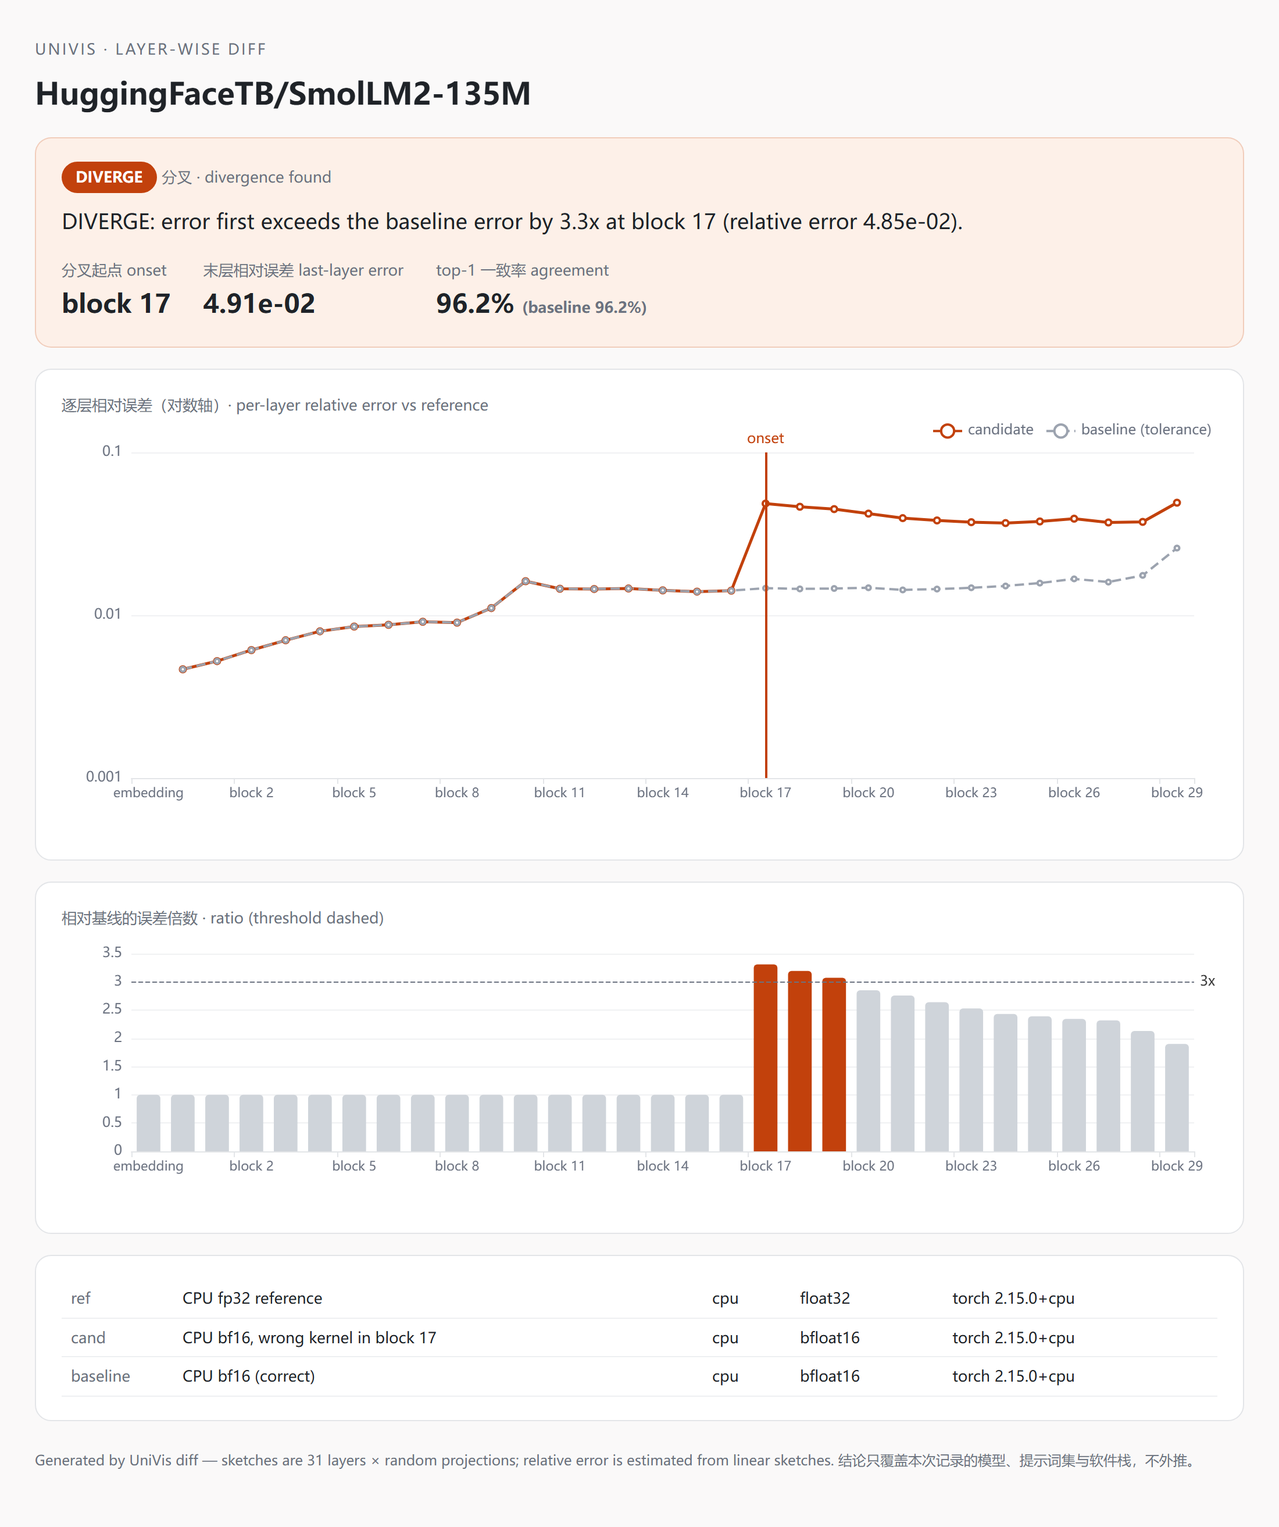
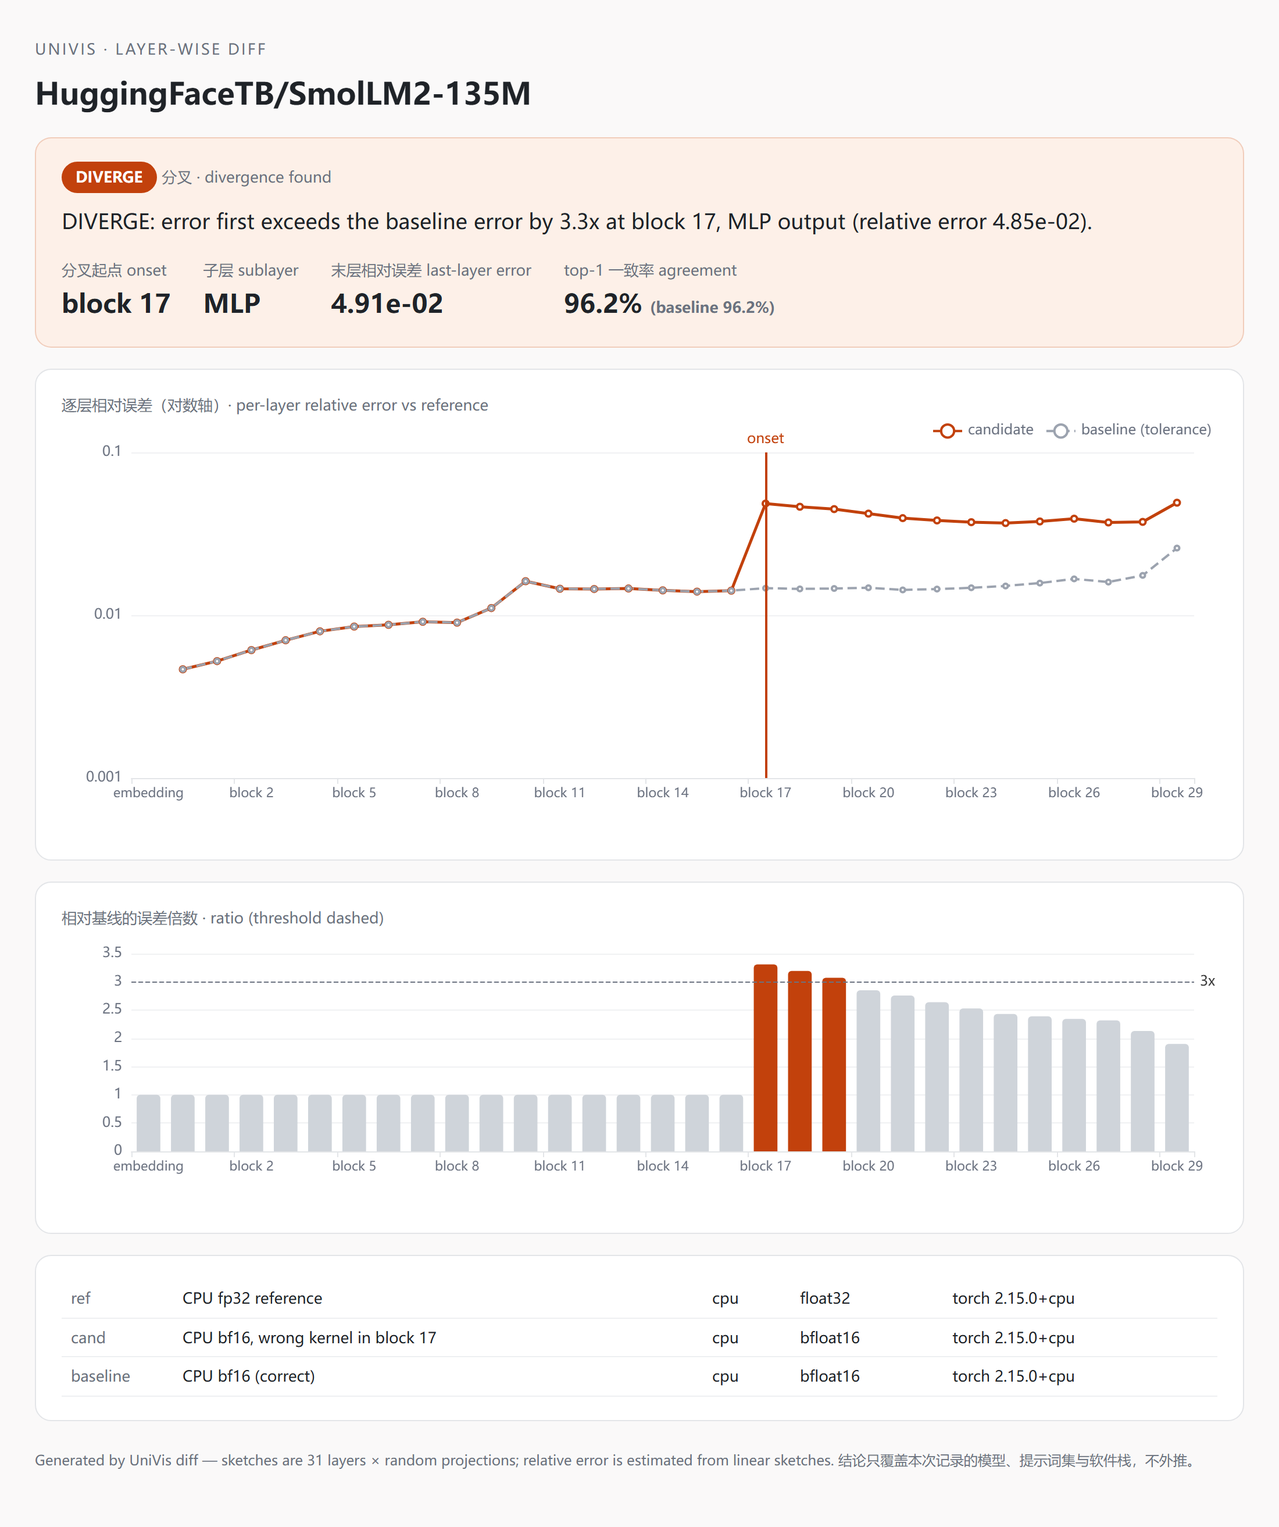
feat(diff): attribute divergence to the attention or MLP output of the onset block (v0.7.1)

Changed region(s): [[0.1545, 0.1561, 0.5873, 0.2186], [0.5564, 0.1249, 0.8345, 0.1561]]

diff --git a/website/index.html b/website/index.html
@@ -70,7 +70,7 @@
       <div><dt>单个错误算子</dt><dd>定位到 block 17 <span class="dim">(输出一致率不变)</span></dd></div>
       <div><dt>跨硬件画像一致性</dt><dd>r = 1.0000</dd></div>
       <div><dt>验证规模</dt><dd>0.5B → 27B <span class="dim">(54×)</span></dd></div>
-      <div><dt>单元测试</dt><dd>91 · CI 全绿</dd></div>
+      <div><dt>单元测试</dt><dd>94 · CI 全绿</dd></div>
       
     </dl>
   </div>
@@ -83,14 +83,14 @@
     <p class="kicker">00 · univis diff · 逐层对照</p>
     <h2>只看输出分不出来，逐层对照一眼定位</h2>
     <p class="lede">在 SmolLM2-135M 的第 17 层故意换错一个激活函数，模拟一个写错的算子。和 fp32 参考答案比，它的 top-1 一致率与数值栈完全正确的 bf16 <b>一样都是 96.2%</b>；
-    逐层对照则指出误差从 <b>block 17</b> 开始超出正常 bf16 误差的 3 倍。一行命令、CPU 上约 40 秒即可复现：<span class="mono">univis diff demo</span>。</p>
+    逐层对照则指出误差从 <b>block 17 的 MLP 输出</b>开始超出正常 bf16 误差的 3 倍。一行命令、CPU 上约 40 秒即可复现：<span class="mono">univis diff demo</span>。</p>
   </div>
   <div class="rtable reveal">
     <table>
       <thead><tr><th>待检端</th><th>top-1 一致率</th><th>UniVis 逐层判定</th></tr></thead>
       <tbody>
         <tr><td>bf16，数值栈正确</td><td>96.2%</td><td>—（作为容差基线）</td></tr>
-        <tr class="bad"><td>bf16，第 17 层算子错误（SiLU → tanh-GELU）</td><td>96.2%</td><td>DIVERGE @ block 17（基线误差的 3.3 倍）</td></tr>
+        <tr class="bad"><td>bf16，第 17 层算子错误（SiLU → tanh-GELU）</td><td>96.2%</td><td>DIVERGE @ block 17 · MLP 输出（基线误差的 3.3 倍）</td></tr>
       </tbody>
     </table>
   </div>
@@ -230,7 +230,7 @@
         <li>TinyLlama-1.1B（Llama 架构）· 双侧</li>
         <li>Qwen3.6-27B（hybrid）· L20 单侧</li>
         <li>torch 2.8.0+metax3.3.0.2 / MACA 3.3.0.15 / transformers 4.57.x</li>
-        <li>91 项单元测试 · CPU 环境全量运行</li>
+        <li>94 项单元测试 · CPU 环境全量运行</li>
       </ul>
     </div>
     <div class="reveal">
@@ -238,7 +238,7 @@
       <ul class="mono-list">
         <li>冗余结论不外推到未测模型</li>
         <li>27B 级 C500 整机对照：计划 2026-10</li>
-        <li>Attention / FFN 子层粒度：路线图中期</li>
+        <li>attention / MLP 子层归因：diff 已支持；算子级定位为后续工作</li>
         <li>早停实验的「保留率」是截断后前缀与原回答一致的比例，不是质量分</li>
       </ul>
     </div>

diff --git a/website/assets/reports/diff_cpu_demo.html b/website/assets/reports/diff_cpu_demo.html
@@ -68,8 +68,9 @@ footer{color:#6b7280;font-size:12px;margin-top:24px}
 <div class="brand">UniVis · layer-wise diff</div>
 <h1>HuggingFaceTB/SmolLM2-135M</h1>
 <div class="card verdict"><span class="pill">DIVERGE</span> <span class="muted">分叉 · divergence found</span>
-<div class="big">DIVERGE: error first exceeds the baseline error by 3.3x at block 17 (relative error 4.85e-02).</div>
+<div class="big">DIVERGE: error first exceeds the baseline error by 3.3x at block 17, MLP output (relative error 4.85e-02).</div>
 <div class="kpis"><div class="kpi"><span class="muted">分叉起点 onset</span><b>block 17</b></div>
+<div class="kpi"><span class="muted">子层 sublayer</span><b>MLP</b></div>
 <div class="kpi"><span class="muted">末层相对误差 last-layer error</span><b>4.91e-02</b></div>
 <div class="kpi"><span class="muted">top-1 一致率 agreement</span><b>96.2% <span class='muted'>(baseline 96.2%)</span></b></div></div></div>
 <div class="card"><div class="muted">逐层相对误差（对数轴）· per-layer relative error vs reference</div><div id="err" class="chart"></div></div>

diff --git a/src/univis/diff.py b/src/univis/diff.py
@@ -63,6 +63,22 @@ def _blocks(model: nn.Module) -> list[nn.Module]:
     return [found[i] for i in sorted(found)]
 
 
+_ATTN_NAMES = ('self_attn', 'attn', 'attention', 'self_attention')
+_MLP_NAMES = ('mlp', 'feed_forward', 'ffn')
+
+
+def _sublayers(blocks: list[nn.Module]) -> list[tuple[nn.Module, nn.Module]] | None:
+    """(attention, mlp) child modules of every block, or None if any block lacks them."""
+    pairs = []
+    for b in blocks:
+        attn = next((getattr(b, n) for n in _ATTN_NAMES if isinstance(getattr(b, n, None), nn.Module)), None)
+        mlp = next((getattr(b, n) for n in _MLP_NAMES if isinstance(getattr(b, n, None), nn.Module)), None)
+        if attn is None or mlp is None:
+            return None
+        pairs.append((attn, mlp))
+    return pairs
+
+
 def _encode(t: torch.Tensor) -> str:
     return base64.b64encode(t.contiguous().numpy().astype('<f4').tobytes()).decode()
 
@@ -98,8 +114,13 @@ def record(
     dim: int = 64,
     seed: int = 0,
     label: str = '',
+    sublayers: bool = True,
 ) -> dict[str, Any]:
-    """Teacher-forced pass over a fixed token set; returns a fingerprint dict."""
+    """Teacher-forced pass over a fixed token set; returns a fingerprint dict.
+
+    With sublayers=True, attention and MLP outputs are sketched too, so a divergence
+    can be attributed to one of them.
+    """
     if token_ids is None:
         if tokenizer is None:
             raise ValueError('Pass a tokenizer or explicit token_ids.')
@@ -107,7 +128,7 @@ def record(
     blocks = _blocks(model)
     device = next(model.parameters()).device
     proj: dict[torch.device, torch.Tensor] = {}
-    step: dict[int, torch.Tensor] = {}
+    step: dict[Any, torch.Tensor] = {}
 
     def sketch(h: torch.Tensor) -> torch.Tensor:
         if h.device not in proj:
@@ -122,8 +143,18 @@ def record(
             step[i] = sketch(output[0] if isinstance(output, tuple) else output)
         return hook
 
+    def make_sub_hook(key: tuple[str, int]):
+        def hook(module, args, output):
+            step[key] = sketch(output[0] if isinstance(output, tuple) else output)
+        return hook
+
     handles = [b.register_forward_hook(make_hook(i), with_kwargs=True) for i, b in enumerate(blocks)]
+    subs = _sublayers(blocks) if sublayers else None
+    for i, (attn, mlp) in enumerate(subs or []):
+        handles.append(attn.register_forward_hook(make_sub_hook(('attn', i))))
+        handles.append(mlp.register_forward_hook(make_sub_hook(('mlp', i))))
     layers: list[list[torch.Tensor]] = [[] for _ in range(len(blocks) + 1)]
+    sub_chunks: dict[str, list[list[torch.Tensor]]] = {k: [[] for _ in blocks] for k in ('attn', 'mlp')}
     top1: list[list[int]] = []
     try:
         for ids in token_ids:
@@ -133,11 +164,16 @@ def record(
             batch = torch.stack([step[i] for i in range(-1, len(blocks))]).cpu()
             for i in range(len(blocks) + 1):
                 layers[i].append(batch[i])
+            if subs:
+                for k in sub_chunks:
+                    sub = torch.stack([step[(k, i)] for i in range(len(blocks))]).cpu()
+                    for i in range(len(blocks)):
+                        sub_chunks[k][i].append(sub[i])
     finally:
         for h in handles:
             h.remove()
     name = getattr(getattr(model, 'config', None), '_name_or_path', '') or type(model).__name__
-    return {
+    fp = {
         'format': FORMAT,
         'label': label,
         'model': name,
@@ -149,6 +185,9 @@ def record(
         'top1': top1,
         'layers': [_encode(torch.cat(chunks)) for chunks in layers],
     }
+    if subs:
+        fp['sublayers'] = {k: [_encode(torch.cat(c)) for c in v] for k, v in sub_chunks.items()}
+    return fp
 
 
 def save(fp: dict[str, Any], path: str | Path) -> Path:
@@ -173,18 +212,40 @@ def _check_pair(a: dict, b: dict) -> None:
                              '(use --tokens-from on the second machine).')
 
 
+def _rel_cos(a_s: str, b_s: str, dim: int) -> tuple[float, float]:
+    a, b = _decode(a_s, dim), _decode(b_s, dim)
+    na = np.linalg.norm(a, axis=1)
+    nb = np.linalg.norm(b, axis=1)
+    safe = na > 1e-12
+    rel = float(np.mean(np.linalg.norm(b - a, axis=1)[safe] / na[safe]))
+    cos = float(np.mean((a * b).sum(1)[safe] / (na[safe] * np.maximum(nb[safe], 1e-12))))
+    return rel, cos
+
+
 def layer_errors(ref: dict, cand: dict) -> tuple[list[float], list[float]]:
     """Per-layer mean relative L2 error and cosine (index 0 = embedding output)."""
     _check_pair(ref, cand)
-    rel, cos = [], []
-    for a_s, b_s in zip(ref['layers'], cand['layers']):
-        a, b = _decode(a_s, ref['dim']), _decode(b_s, ref['dim'])
-        na = np.linalg.norm(a, axis=1)
-        nb = np.linalg.norm(b, axis=1)
-        safe = na > 1e-12
-        rel.append(float(np.mean(np.linalg.norm(b - a, axis=1)[safe] / na[safe])))
-        cos.append(float(np.mean((a * b).sum(1)[safe] / (na[safe] * np.maximum(nb[safe], 1e-12)))))
-    return rel, cos
+    pairs = [_rel_cos(a, b, ref['dim']) for a, b in zip(ref['layers'], cand['layers'])]
+    return [p[0] for p in pairs], [p[1] for p in pairs]
+
+
+def _attribute(ref: dict, cand: dict, baseline: dict | None, block: int) -> dict[str, float] | None:
+    """Error ratio of the attention and MLP outputs at the onset block.
+
+    Against the baseline when given, otherwise against the same sublayer one block earlier.
+    """
+    sides = [ref, cand] + ([baseline] if baseline is not None else [])
+    if not all('sublayers' in fp for fp in sides) or (baseline is None and block < 1):
+        return None
+    out = {}
+    for k in ('attn', 'mlp'):
+        err = _rel_cos(ref['sublayers'][k][block], cand['sublayers'][k][block], ref['dim'])[0]
+        if baseline is not None:
+            tol = _rel_cos(ref['sublayers'][k][block], baseline['sublayers'][k][block], ref['dim'])[0]
+        else:
+            tol = _rel_cos(ref['sublayers'][k][block - 1], cand['sublayers'][k][block - 1], ref['dim'])[0]
+        out[k] = err / max(tol, MIN_ERROR / NOISE_RATIO) if err > MIN_ERROR else 1.0
+    return out
 
 
 def _top1_agree(ref: dict, cand: dict) -> float:
@@ -222,6 +283,14 @@ def compare(ref: dict, cand: dict, baseline: dict | None = None) -> dict[str, An
         result.update(ratio=growth, method='jump')
         result['verdict'] = 'DIVERGE' if onset is not None else 'UNKNOWN'
     result['onset'] = onset
+    result['onset_sublayer'] = None
+    if onset is not None and onset >= 1:
+        ratios = _attribute(ref, cand, baseline, onset - 1)
+        if ratios:
+            result['sublayer_ratio'] = ratios
+            # attention runs first inside a block, so it wins when both are out of tolerance
+            hit = [k for k in ('attn', 'mlp') if ratios[k] > NOISE_RATIO]
+            result['onset_sublayer'] = hit[0] if hit else None
     result['summary'] = _summary(result)
     return result
 
@@ -237,7 +306,8 @@ def _summary(r: dict) -> str:
     if r['verdict'] == 'DIVERGE':
         i = r['onset']
         kind = 'the baseline error' if r['method'] == 'baseline' else 'the previous layer'
-        return (f"DIVERGE: error first exceeds {kind} by {r['ratio'][i]:.1f}x at {_layer_name(i)} "
+        where = {'attn': ', attention output', 'mlp': ', MLP output'}.get(r.get('onset_sublayer'), '')
+        return (f"DIVERGE: error first exceeds {kind} by {r['ratio'][i]:.1f}x at {_layer_name(i)}{where} "
                 f"(relative error {r['rel_error'][i]:.2e}).")
     return ('UNKNOWN: no abrupt jump from block 1 on, but without a known-good baseline '
             'the error level (and the embedding / first block) cannot be judged.')
@@ -304,6 +374,7 @@ footer{{color:#6b7280;font-size:12px;margin-top:24px}}
 <div class="card verdict"><span class="pill">{result['verdict']}</span> <span class="muted">{tag}</span>
 <div class="big">{result['summary']}</div>
 <div class="kpis"><div class="kpi"><span class="muted">分叉起点 onset</span><b>{names[result['onset']] if result['onset'] is not None else '—'}</b></div>
+<div class="kpi"><span class="muted">子层 sublayer</span><b>{ {'attn': 'attention', 'mlp': 'MLP'}.get(result.get('onset_sublayer'), '—') }</b></div>
 <div class="kpi"><span class="muted">末层相对误差 last-layer error</span><b>{result['rel_error'][-1]:.2e}</b></div>
 <div class="kpi"><span class="muted">top-1 一致率 agreement</span><b>{agree}</b></div></div></div>
 <div class="card"><div class="muted">逐层相对误差（对数轴）· per-layer relative error vs reference</div><div id="err" class="chart"></div></div>

diff --git a/tests/test_diff.py b/tests/test_diff.py
@@ -84,3 +84,35 @@ def test_render_html(tmp_path):
     res = diff.compare(ref, diff.record(_faulty(_model(), 2), token_ids=TOKENS))
     html = diff.render_html(res, tmp_path / 'r.html').read_text(encoding='utf-8')
     assert 'DIVERGE' in html and 'echarts' in html
+
+
+def _faulty_sublayer(model: torch.nn.Module, block: int, name: str, scale: float = 0.5) -> torch.nn.Module:
+    """Perturb one sublayer (self_attn or mlp) output of a block."""
+    gen = torch.Generator().manual_seed(2)
+
+    def hook(module, args, output):
+        h = output[0] if isinstance(output, tuple) else output
+        h = h + scale * h.abs().mean() * torch.randn(h.shape, generator=gen).to(h.dtype)
+        return (h, *output[1:]) if isinstance(output, tuple) else h
+
+    getattr(model.model.layers[block], name).register_forward_hook(hook)
+    return model
+
+
+# random-init MLP outputs are tiny next to the residual stream, hence the larger scale
+@pytest.mark.parametrize('name,expected,scale', [('mlp', 'mlp', 50.0), ('self_attn', 'attn', 0.5)])
+def test_onset_sublayer_attribution(name, expected, scale):
+    ref = diff.record(_model(), token_ids=TOKENS)
+    good = diff.record(_model().to(torch.bfloat16), token_ids=TOKENS)
+    bad = diff.record(_faulty_sublayer(_model(), 3, name, scale).to(torch.bfloat16), token_ids=TOKENS)
+    res = diff.compare(ref, bad, baseline=good)
+    assert res['verdict'] == 'DIVERGE' and res['onset'] == 4
+    assert res['onset_sublayer'] == expected
+    assert ('MLP' if expected == 'mlp' else 'attention') in res['summary']
+
+
+def test_sublayers_optional():
+    fp = diff.record(_model(), token_ids=TOKENS, sublayers=False)
+    assert 'sublayers' not in fp
+    res = diff.compare(fp, diff.record(_faulty(_model(), 2), token_ids=TOKENS, sublayers=False))
+    assert res['onset_sublayer'] is None

diff --git a/src/univis/diff_cli.py b/src/univis/diff_cli.py
@@ -23,6 +23,7 @@ def add_parser(sub: argparse._SubParsersAction) -> None:
     r.add_argument('--tokens-from', default=None, help='Reuse the exact token ids of another fingerprint')
     r.add_argument('--dim', type=int, default=64, help='Sketch dimension (default: 64)')
     r.add_argument('--label', default='', help='Free-text label, e.g. "C500 MXMACA 3.3"')
+    r.add_argument('--no-sublayers', action='store_true', help='Skip attention/MLP sketches (smaller files)')
 
     d = dsub.add_parser('demo', help='CPU demo: tell a simulated wrong kernel apart from bf16 noise')
     d.add_argument('--model', default='HuggingFaceTB/SmolLM2-135M', help='Llama-style HF model')
@@ -87,7 +88,8 @@ def run(args: argparse.Namespace) -> None:
         model = _load(args.model, args.dtype, device)
         token_ids = diff.load(args.tokens_from)['token_ids'] if args.tokens_from else None
         tok = None if token_ids else AutoTokenizer.from_pretrained(args.model)
-        fp = diff.record(model, tok, token_ids=token_ids, dim=args.dim, label=args.label)
+        fp = diff.record(model, tok, token_ids=token_ids, dim=args.dim, label=args.label,
+                         sublayers=not args.no_sublayers)
         diff.save(fp, args.output)
         print(f"Recorded {fp['num_layers']} blocks x {sum(map(len, fp['token_ids']))} positions -> {args.output}")
         return

diff --git a/src/univis/__init__.py b/src/univis/__init__.py
@@ -18,7 +18,7 @@ import torch.nn as nn
 from .tracker import Tracker, create_tracker
 from .pilot import Pilot, PilotPolicy
 
-__version__ = '0.7.0'
+__version__ = '0.7.1'
 
 
 def attach(

diff --git a/README.en.md b/README.en.md
@@ -8,7 +8,7 @@
 
 [![PyPI](https://img.shields.io/pypi/v/univis.svg)](https://pypi.org/project/univis/)
 [![CI](https://github.com/cookiesheep/univis/actions/workflows/ci.yml/badge.svg)](https://github.com/cookiesheep/univis/actions/workflows/ci.yml)
-[![Tests](https://img.shields.io/badge/tests-91-brightgreen.svg)](tests)
+[![Tests](https://img.shields.io/badge/tests-94-brightgreen.svg)](tests)
 [![Python 3.10+](https://img.shields.io/badge/Python-3.10%2B-blue.svg)](https://www.python.org/downloads/)
 [![MetaX C500](https://img.shields.io/badge/MetaX_C500-tested-c2410c.svg)](docs/mxmaca/phase-b/README.md)
 [![License: MIT](https://img.shields.io/badge/License-MIT-green.svg)](LICENSE)
@@ -28,7 +28,7 @@ UniVis compares layer by layer. Both sides consume the same tokens, each layer's
 | Verdict | Meaning |
 |---|---|
 | **PASS** | Every layer stays within 3× the error of a known-good implementation in the same precision |
-| **DIVERGE** | Names the **first** layer whose error leaves the tolerance; look at the kernels that layer uses |
+| **DIVERGE** | Names the **first** layer whose error leaves the tolerance, and whether its attention or MLP output is to blame; look at those kernels |
 | **UNKNOWN** | No tolerance baseline was given; abrupt jumps are ruled out, but "normal" is not claimed |
 
 ## 30-second start (CPU, no GPU)
@@ -44,7 +44,7 @@ univis diff demo
 [3/3] bf16 with a wrong activation kernel in block 17
 
   correct bf16 : top-1 96.2%  (used as the tolerance baseline)
-  broken  bf16 : top-1 96.2%  DIVERGE: error first exceeds the baseline error by 3.3x at block 17 (relative error 4.85e-02).
+  broken  bf16 : top-1 96.2%  DIVERGE: error first exceeds the baseline error by 3.3x at block 17, MLP output (relative error 4.85e-02).
 
 Same output-level agreement, but the layer view pinpoints the block.
 Report: univis_diff_demo.html
@@ -104,6 +104,7 @@ flowchart LR
 - **Teacher forcing**: both sides prefill the same tokens in one pass instead of generating, so one different greedy pick cannot shift everything after it. Positions align exactly.
 - **On-device sketches**: inside the hook, each block output is projected to 64 dims by a fixed ±1 random matrix. The projection is linear, $P(a)-P(b)=P(a-b)$, so sketches stored on two machines are enough to estimate per-layer relative error without moving GB-sized activations. The matrix comes from SHAKE-256 and is identical on every machine.
 - **Tolerance baseline**: the error of a known-good same-precision implementation against the reference is that precision's normal error. A candidate layer above 3× of it marks the divergence onset.
+- **Sublayer attribution**: attention and MLP outputs are sketched too. Within the onset block, the sublayer that leaves tolerance first is the suspect; attention runs before the MLP, so it is blamed when both do.
 - **Auditable without a GPU**: the verdict depends only on the fingerprint files, which anyone can re-check on a CPU.
 
 ## Evidence
@@ -113,7 +114,7 @@ flowchart LR
 | Candidate | Top-1 agreement with fp32 | UniVis layer verdict |
 |---|---|---|
 | bf16, correct stack | 96.2% | — (used as the tolerance baseline) |
-| bf16, block 17 activation swapped (SiLU → tanh-GELU) | **96.2%** | **DIVERGE @ block 17** (3.3× the baseline error) |
+| bf16, block 17 activation swapped (SiLU → tanh-GELU) | **96.2%** | **DIVERGE @ block 17, MLP output** (3.3× the baseline error) |
 
 Reproduce with `univis diff demo` or [`examples/diff_fault_demo.py`](examples/diff_fault_demo.py). The fault is injected, so this shows the mechanism works; detection on real porting issues has to be shown on C500 (stage C below).
 
@@ -149,7 +150,7 @@ The same C500 session also drove a fix in UniVis itself: hook overhead fell from
 |---|---|---|
 | MetaX C500 (16GB sGPU slice) | torch 2.8.0+metax3.3.0.2, MACA 3.3.0.15, transformers 4.57.3 | ✅ collection path and cross-hardware comparison ([evidence](docs/mxmaca/phase-a/README.md)) |
 | NVIDIA L20 (48GB) | torch 2.10.0+cu128, transformers 4.57.6 | ✅ incl. a 27B-class one-sided baseline |
-| CPU | torch 2.x | ✅ all 91 tests, `univis diff demo`, offline reports |
+| CPU | torch 2.x | ✅ all 94 tests, `univis diff demo`, offline reports |
 
 | Stage | Goal | Status |
 |---|---|---|
@@ -208,7 +209,7 @@ CLI: `univis report` (JSONL → HTML), `univis compare` (multi-model), `univis s
 - The [gallery](https://cookiesheep.github.io/univis/) has 7 real-hardware reports (4 on C500, 3 on L20) and 1 CPU diff report, viewable in a browser without a GPU.
 - C500 environment fingerprints (MXMACA versions, mx-smi output), raw JSONL, and reproduction scripts are in the repo: [docs/mxmaca/](docs/mxmaca/phase-a/README.md).
 - Both negative results are published in full (previous section).
-- 91 unit tests run on GitHub Actions with Python 3.10 / 3.12.
+- 94 unit tests run on GitHub Actions with Python 3.10 / 3.12.
 
 ## Architecture
 
@@ -223,14 +224,14 @@ src/univis/      Python SDK: detection · probe · metrics · transport · track
 dashboard/       React 18 + TypeScript + ECharts frontend
 docs/mxmaca/     C500 evidence: environment fingerprints, raw data, comparison scripts
 examples/        runnable examples (incl. diff_fault_demo.py)
-tests/           91 unit tests
+tests/           94 unit tests
 ```
 
 Module design: [ARCHITECTURE.md](ARCHITECTURE.md).
 
 ## Roadmap
 
-- **Near term**: `univis diff` reference fingerprints on C500 (stage C); per-layer latency and the FlagGems kernel-swap loop (stage C+); divergence localization at sub-layer (attention / MLP) granularity.
+- **Near term**: `univis diff` reference fingerprints on C500 (stage C); per-layer latency and the FlagGems kernel-swap loop (stage C+); full-tensor dumps of the diverging sublayer to produce a minimal repro for vendors.
 - **Mid term**: before/after-quantization comparison (W8A8 / W4A16) that suggests which layers to keep in higher precision; 27B-class validation on a full C500.
 - **Long term**: more domestic compute stacks; numeric regression checks wired into inference frameworks.
 
